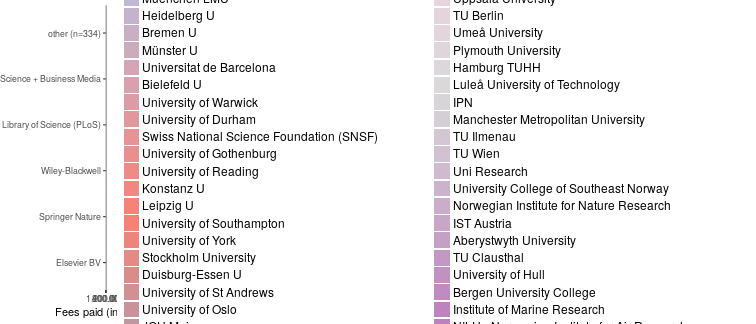
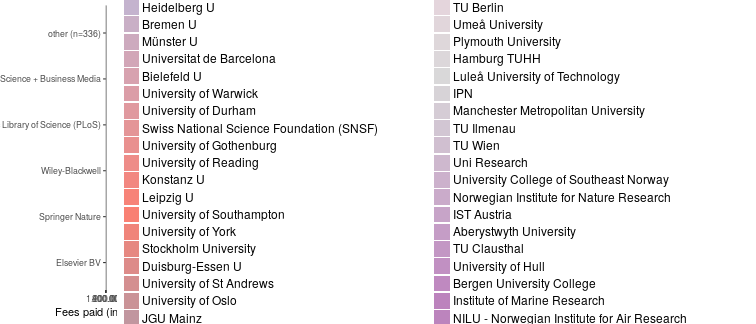
post: osnabrück joins openapc

Changed region(s): [[0.578, 0.0, 0.9127, 1.0], [0.1521, 0.0, 0.5172, 1.0]]

diff --git a/about.md b/about.md
@@ -29,6 +29,7 @@ So far, the following German universities have agreed to share information on pa
 - [JGU Mainz](https://www.openaccess.uni-mainz.de/publikationsfonds-der-jgu/)
 - [JLU Giessen](https://www.uni-giessen.de/ub/en/digitales-publizieren-en/openaccess-en/oajlu-en?set_language=en)
 - [KIT Karlsruhe](http://www.bibliothek.kit.edu/cms/kit-publikationsfonds.php)
+- [Osnabrück University](https://www.ub.uni-osnabrueck.de/publizieren_archivieren/open_access/publikationsfonds.html)
 - [Ruhr Universität Bochum](http://www.ruhr-uni-bochum.de/oa/)
 - [Technische Universität Berlin](http://www.ub.tu-berlin.de/publikationsfonds/)
 - [Technische Universität Chemnitz](https://www.tu-chemnitz.de/ub/publizieren/openaccess/index.html.en)
@@ -218,13 +219,13 @@ Jisc Collections released data on APC payments made by UK higher education insti
 
 Information on both open access journal articles and open access publication of articles in toll-access journals ("hybrid") are provided.
 
-In total,  94 037 591 € for  49 061 articles were paid by the participating unviversities. Average  fee is 1 916.7 € and the median 1 722 €.
+In total,  94 127 636 € for  49 126 articles were paid by the participating unviversities. Average  fee is 1 916 € and the median 1 722 €.
 
 ### Open Access Journals
 
 
 
-At the moment, the dataset releases information on 27 987 articles in open access journals which charge publication fees. Total expenditure amounts to  41 525 810 €. Average  fee is 1 483.8 € and the median 1 399 €.
+At the moment, the dataset releases information on 28 052 articles in open access journals which charge publication fees. Total expenditure amounts to  41 615 855 €. Average  fee is 1 483.5 € and the median 1 400 €.
 
 View dataset on [GitHub](https://github.com/OpenAPC/openapc-de/blob/master/data/apc_de.csv).
 
@@ -312,6 +313,7 @@ View dataset on [GitHub](https://github.com/OpenAPC/openapc-de/blob/master/data/
 |OpenAIRE                                                        |      538|           780,991|         1,452|  1,413|
 |Oslo and Akershus university college                            |       36|            45,728|         1,270|  1,252|
 |Oslo University Hospital                                        |      111|           149,777|         1,349|  1,392|
+|Osnabrück U                                                     |       65|            90,046|         1,385|  1,553|
 |Plymouth University                                             |       11|            14,848|         1,350|  1,340|
 |Potsdam U                                                       |       60|            87,242|         1,454|  1,476|
 |Queen Mary, University of London                                |       53|            89,135|         1,682|  1,250|
@@ -563,7 +565,7 @@ For data enrichment, sample visualisations and explorations we build on the work
 
 ## Contributors
 
-Jens Harald Aasheim, Benjamin Ahlborn, Chelsea Ambler, Magdalena Andrae, Jochen Apel, Hans-Georg Becker, Roland Bertelmann, Daniel Beucke, Peter Blume, Ute Blumtritt, Kim Braun, Christoph Broschinski, Dorothea Busjahn, Pablo de Castro, Amanda Cullin, Patrick Danowski, Gernot Deinzer, Julia Dickel, Andrea Dorner, Karin Eckert, Clemens Engelhardt, Inken Feldsien-Sudhaus, Fabian Franke, Claudia Frick, Paola Galimberti, Agnes Geißelmann, Kai Karin Geschuhn, Steffi Grimm, Christian Gutknecht, Uli Hahn, Kristina Hanig, Dominik Hell, Ulrich Herb, Ute Holzwarth, Christie Hurrell, Doris Jaeger, Najko Jahn, Alexandra Jobmann, Andreas Kennecke, Robert Kiley, Stephanie Kroiss, Gerrit Kuehle, Ignasi Labastida i Juan, Stuart Lawson, Kathrin Lucht-Roussel, Frank Lützenkirchen, Anna Marini, Anja Oberländer, Vitali Peil, Dirk Pieper, Tobias Pohlmann, Markus Putnings, Annette Scheiner, Michael Schlachter, Birgit Schlegel, Adriana Sikora, Susanne Stemmler, Matti Stöhr, Edith Reschke, Katharina Rieck, Florian Ruckelshausen, Ilka Rudolf, Marco Tullney, Astrid Vieler, Viola Voß, Marco Winkler, Sabine Witt, Philip Young
+Jens Harald Aasheim, Benjamin Ahlborn, Chelsea Ambler, Magdalena Andrae, Jochen Apel, Hans-Georg Becker, Roland Bertelmann, Daniel Beucke, Peter Blume, Ute Blumtritt, Sabine Boccalini, Kim Braun, Christoph Broschinski, Dorothea Busjahn, Pablo de Castro, Amanda Cullin, Patrick Danowski, Gernot Deinzer, Julia Dickel, Andrea Dorner, Karin Eckert, Clemens Engelhardt, Inken Feldsien-Sudhaus, Fabian Franke, Claudia Frick, Paola Galimberti, Agnes Geißelmann, Kai Karin Geschuhn, Steffi Grimm, Christian Gutknecht, Uli Hahn, Kristina Hanig, Dominik Hell, Ulrich Herb, Ute Holzwarth, Christie Hurrell, Doris Jaeger, Najko Jahn, Alexandra Jobmann, Andreas Kennecke, Robert Kiley, Stephanie Kroiss, Gerrit Kuehle, Ignasi Labastida i Juan, Stuart Lawson, Kathrin Lucht-Roussel, Frank Lützenkirchen, Anna Marini, Anja Oberländer, Vitali Peil, Dirk Pieper, Tobias Pohlmann, Markus Putnings, Annette Scheiner, Michael Schlachter, Birgit Schlegel, Adriana Sikora, Susanne Stemmler, Matti Stöhr, Edith Reschke, Katharina Rieck, Florian Ruckelshausen, Ilka Rudolf, Marco Tullney, Astrid Vieler, Viola Voß, Marco Winkler, Sabine Witt, Philip Young
 
 ## Contact
 

diff --git a/_posts/2018-02-28-osnabrueck.md b/_posts/2018-02-28-osnabrueck.md
@@ -1,0 +1,64 @@
+---
+layout:     post
+author:     Christoph Broschinski
+author_lnk: https://github.com/cbroschinski
+title:      Osnabrück University joins OpenAPC
+date:       2018-02-28 10:00:00
+summary:    
+categories: [general, openAPC]
+comments: true
+---
+
+
+
+
+We welcome [Osnabrück University](https://www.uni-osnabrueck.de/en/home.html) as new contributing institution!
+
+[Osnabrück University Library](https://www.ub.uni-osnabrueck.de/startseite.html) is in charge of the [University's Open Access Publishing Fund](https://www.ub.uni-osnabrueck.de/publizieren_archivieren/open_access/publikationsfonds.html), which is supported under the [DFG's Open Access Publishing Programme](http://www.dfg.de/en/research_funding/programmes/infrastructure/lis/funding_opportunities/open_access/).
+
+Contact Person is [Sabine Boccalini](mailto:edocs@ub.uni-osnabrueck.de).
+
+## Cost data
+
+
+
+The initial dataset provided by Osnabrück University Library covers publication fees for 65 articles published in 2016 and 2017. Total expenditure amounts to 90 046€ and the average fee is 1 385€.
+
+
+|                                                            | Articles| Fees paid in EURO| Mean Fee paid|
+|:-----------------------------------------------------------|--------:|-----------------:|-------------:|
+|Springer Nature                                             |       16|             24130|          1508|
+|Frontiers Media SA                                          |       13|             22372|          1721|
+|Public Library of Science (PLoS)                            |       11|             19187|          1744|
+|International Union of Crystallography (IUCr)               |        5|              1066|           213|
+|MDPI AG                                                     |        5|              6594|          1319|
+|Wiley-Blackwell                                             |        2|              3889|          1944|
+|Acta Dermato-Venereologica                                  |        1|              1904|          1904|
+|American Association For Science and Technology (AASCIT)    |        1|               338|           338|
+|Association for Research in Vision and Ophthalmology (ARVO) |        1|              1954|          1954|
+|Bern Open Publishing                                        |        1|               547|           547|
+|Canadian Center of Science and Education                    |        1|               388|           388|
+|Hindawi Publishing Corporation                              |        1|              1603|          1603|
+|Informa UK Limited                                          |        1|              1367|          1367|
+|Osterreichische Akademie der Wissenschaften                 |        1|               654|           654|
+|Portland Press Ltd.                                         |        1|               792|           792|
+|Resilience Alliance, Inc.                                   |        1|              1437|          1437|
+|SAGE Publications                                           |        1|               530|           530|
+|Shared Science Publishers OG                                |        1|               698|           698|
+|Walter de Gruyter GmbH                                      |        1|               595|           595|
+
+## Overview
+
+A detailed analysis of the contributed data provides the following overview:
+
+### Fees paid per publisher (in EURO)
+
+![plot of chunk tree_osnabrueck_2018_02_28_full](/figure/tree_osnabrueck_2018_02_28_full-1.png)
+
+###  Average costs per year (in EURO)
+
+![plot of chunk box_osnabrueck_2018_02_28_year_full](/figure/box_osnabrueck_2018_02_28_year_full-1.png)
+
+###  Average costs per publisher (in EURO)
+
+![plot of chunk box_osnabrueck_2018_02_28_publisher_full](/figure/box_osnabrueck_2018_02_28_publisher_full-1.png)
